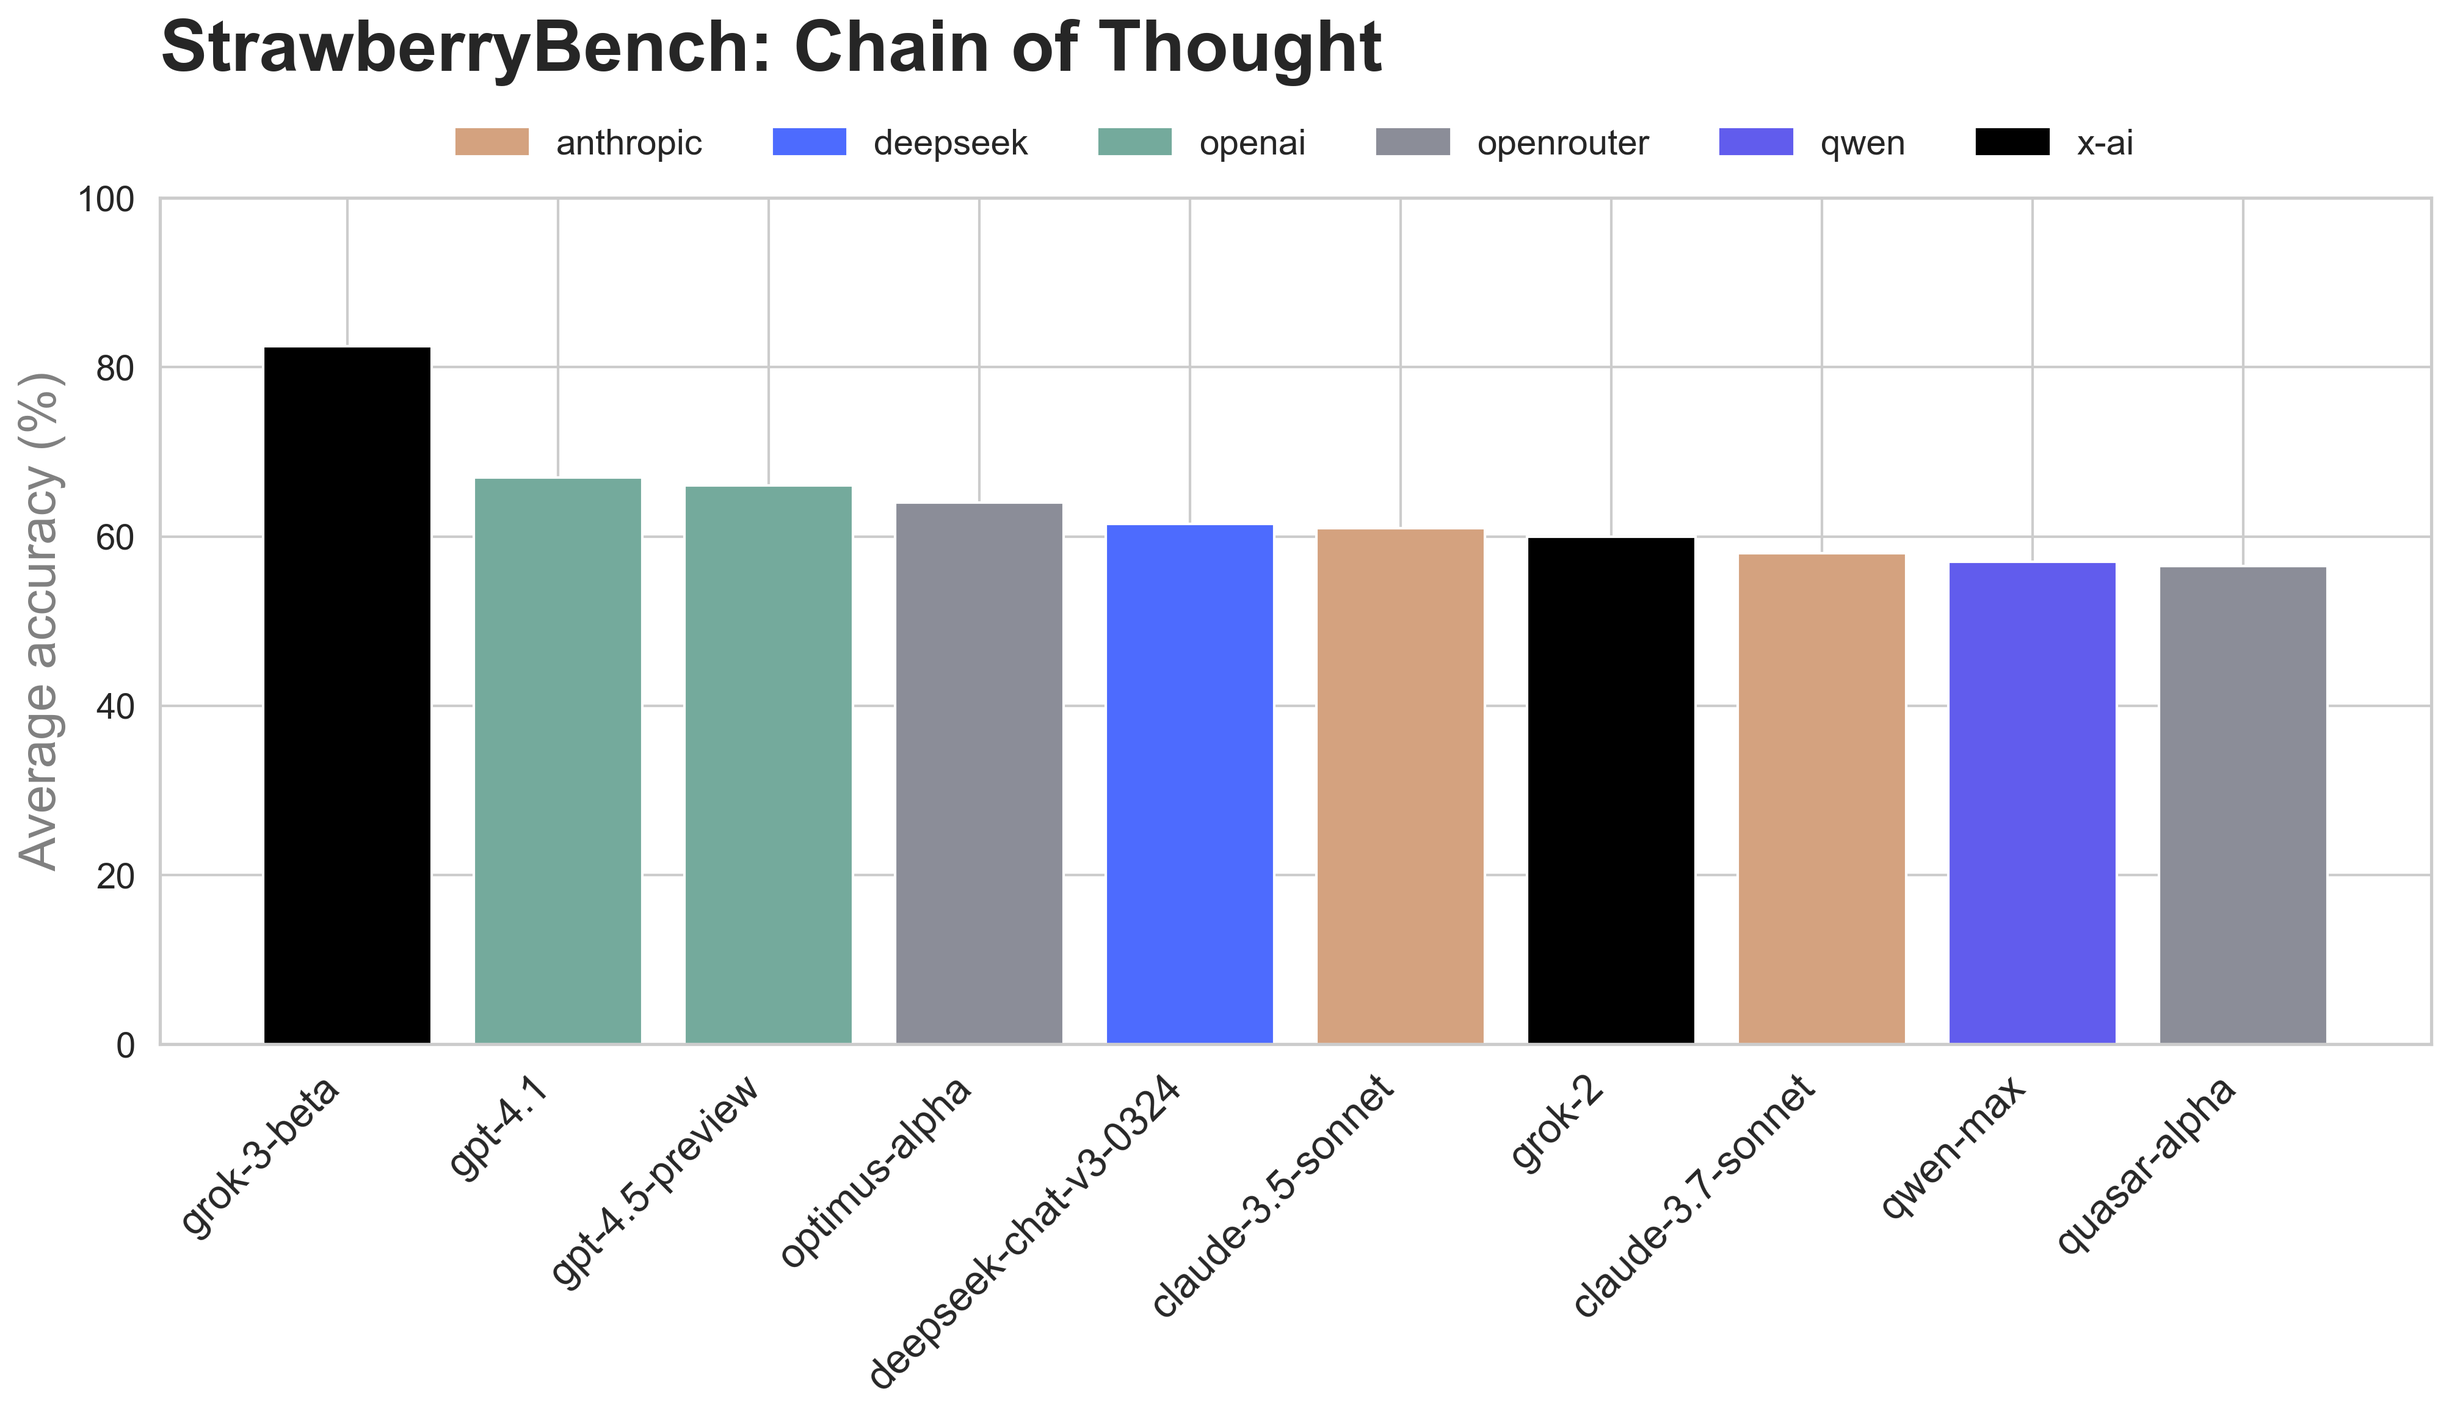
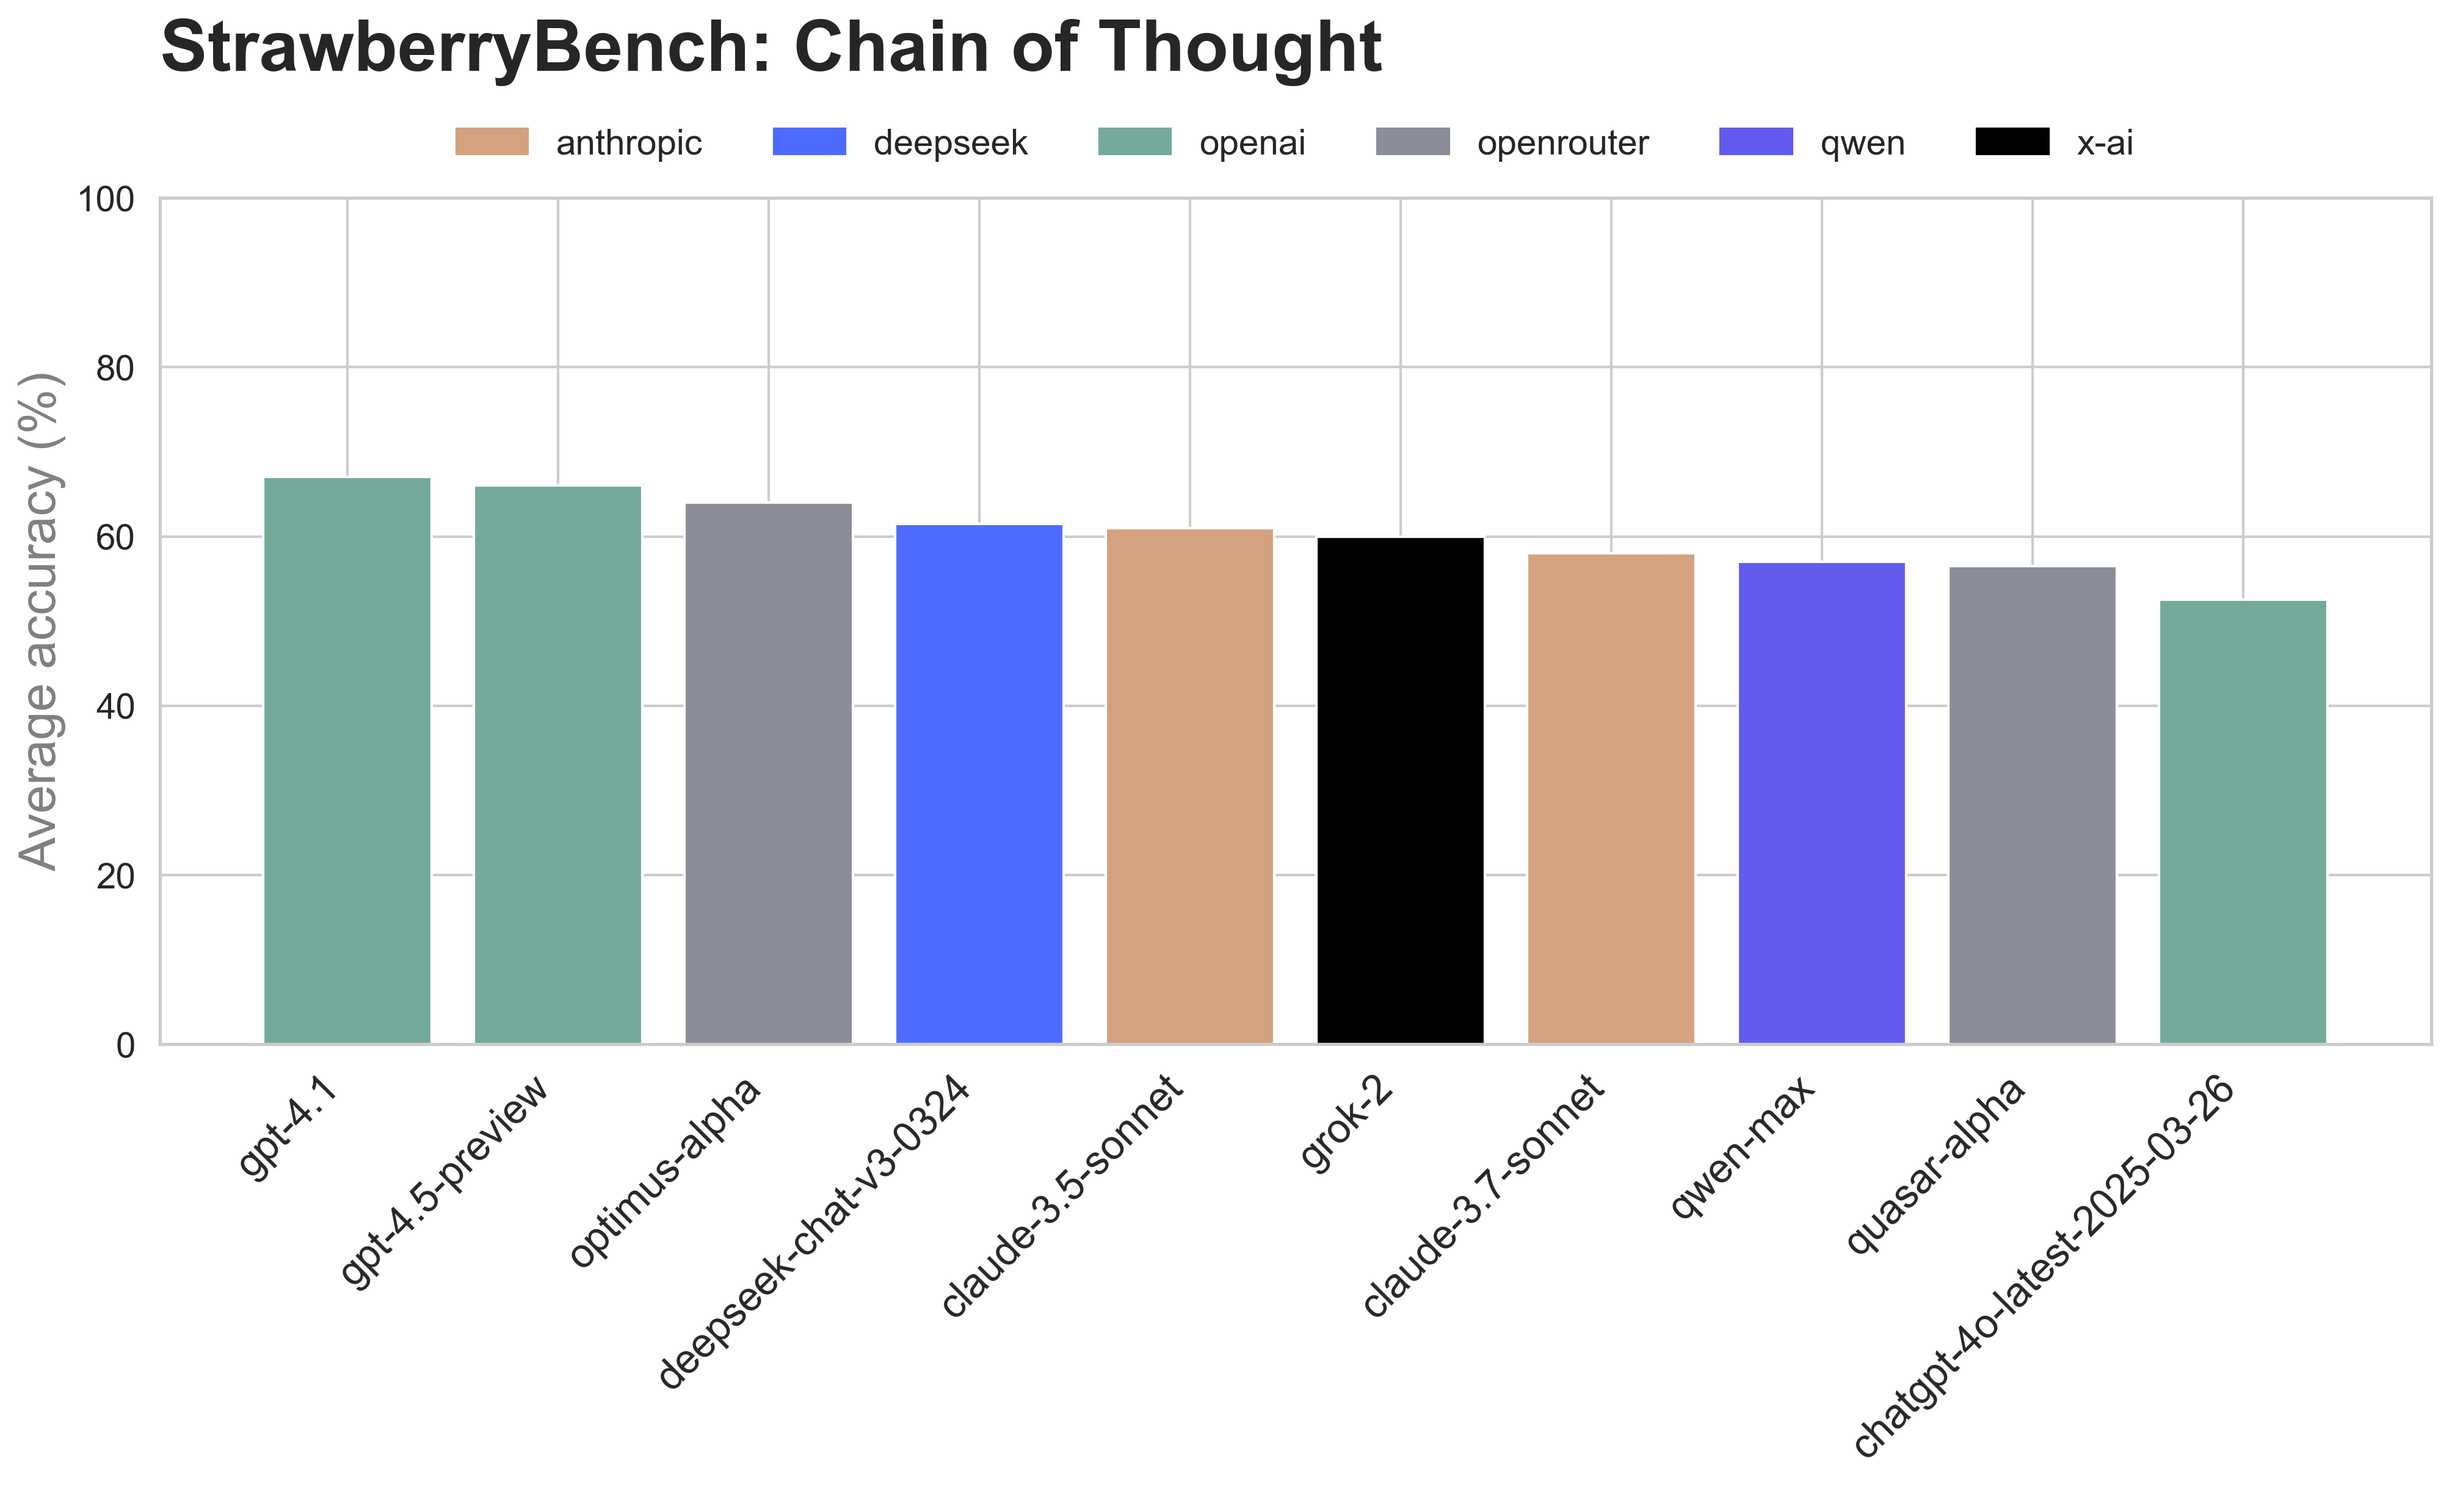
Add gpt 5 variants

diff --git a/src/config.py b/src/config.py
@@ -7,7 +7,6 @@ MODELS = [
     # { "name": "google/gemini-1.5-pro-001", "client": "google_vertex", "type": "nocot" },
     # { "name": "google/gemini-2.0-flash-001", "client": "google_vertex", "type": "nocot" },
     # { "name": "google/gemini-2.0-flash-lite-001", "client": "google_vertex", "type": "nocot" },
-    # { "name": "google/gemini-2.0-pro-exp-02-05", "client": "google_vertex", "type": "nocot", "settings": { "rate_limit": 10 } },
     # { "name": "google/gemma-3-27b-it", "client": "openrouter", "type": "nocot" },
     # { "name": "meta-llama/llama-3.1-405b-instruct", "client": "openrouter", "type": "nocot" },
     # { "name": "meta-llama/llama-3.3-70b-instruct", "client": "openrouter", "type": "nocot" },
@@ -36,7 +35,6 @@ MODELS = [
     # { "name": "google/gemini-1.5-pro-001", "client": "google_vertex", "type": "cot" },
     # { "name": "google/gemini-2.0-flash-001", "client": "google_vertex", "type": "cot" },
     # { "name": "google/gemini-2.0-flash-lite-001", "client": "google_vertex", "type": "cot" },
-    # { "name": "google/gemini-2.0-pro-exp-02-05", "client": "google_vertex", "type": "cot", "settings": { "rate_limit": 10 } },
     # { "name": "google/gemma-3-27b-it", "client": "openrouter", "type": "cot" },
     # { "name": "meta-llama/llama-3.1-405b-instruct", "client": "openrouter", "type": "cot" },
     # { "name": "meta-llama/llama-3.3-70b-instruct", "client": "openrouter", "type": "cot" },
@@ -60,9 +58,9 @@ MODELS = [
     # { "name": "anthropic/claude-3-7-sonnet-20250219", "client": "anthropic", "type": "reasoning", "settings": {"rate_limit": 4} },
     # { "name": "deepseek/deepseek-r1", "client": "openrouter", "type": "reasoning" },
     # { "name": "deepseek/deepseek-r1-distill-llama-70b", "client": "openrouter", "type": "reasoning" },
-    # { "name": "google/gemini-2.0-flash-thinking-exp-01-21", "client": "google_vertex", "type": "reasoning", "settings": { "rate_limit": 10 } },
-    # { "name": "google/gemini-2.5-pro-exp-03-25", "client": "google_vertex", "type": "reasoning", "settings": {"rate_limit": 15} },
-    # { "name": "google/gemini-2.5-flash-preview-04-17", "client": "google_vertex", "type": "reasoning" },
+    # { "name": "google/gemini-2.5-pro", "client": "google_vertex", "type": "reasoning" },
+    # { "name": "google/gemini-2.5-flash", "client": "google_vertex", "type": "reasoning" },
+    # { "name": "google/gemini-2.5-flash-lite", "client": "google_vertex", "type": "reasoning" },
     # { "name": "openai/o1", "client": "openai", "type": "reasoning" },
     # { "name": "openai/o1-mini", "client": "openai", "type": "reasoning" },
     # { "name": "openai/o3-mini", "client": "openai", "type": "reasoning" },
@@ -70,7 +68,13 @@ MODELS = [
     # { "name": "openai/o3", "client": "openai", "type": "reasoning" },
     # { "name": "openai/o4-mini", "client": "openai", "type": "reasoning" },
     # { "name": "qwen/qwq-32b", "client": "openrouter", "type": "reasoning", "settings": {"rate_limit": 30} },
-    # { "name": "x-ai/grok-3-mini-beta", "client": "openrouter", "type": "reasoning" },
+    # { "name": "x-ai/grok-3-mini", "client": "openrouter", "type": "reasoning" },
+    # { "name": "x-ai/grok-3", "client": "openrouter", "type": "reasoning" },
+    # { "name": "x-ai/grok-4", "client": "openrouter", "type": "reasoning" },
+    # { "name": "openai/gpt-5-chat-latest", "client": "openai", "type": "reasoning" },
+    # { "name": "openai/gpt-5", "client": "openai", "type": "reasoning" },
+    # { "name": "openai/gpt-5-mini", "client": "openai", "type": "reasoning" },
+    # { "name": "openai/gpt-5-nano", "client": "openai", "type": "reasoning" },
 ]
 
 # The additional characters to insert in the word

diff --git a/src/client.py b/src/client.py
@@ -12,7 +12,7 @@ cache = {}
 def get_client(model: dict):
     name = model["name"]
     client = model["client"]
-    rate_limit = model.get("settings", {}).get("rate_limit", 100)
+    rate_limit = model.get("settings", {}).get("rate_limit", 200)
     key = (name, client)
 
     if key in cache:
